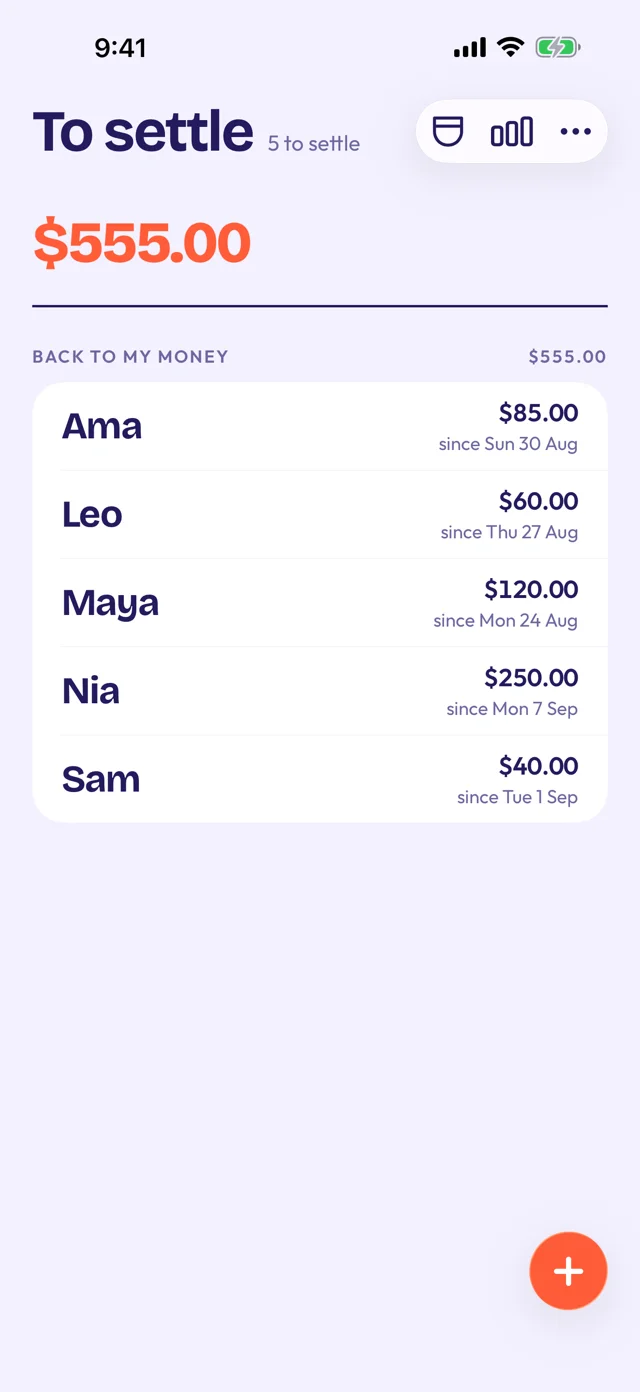
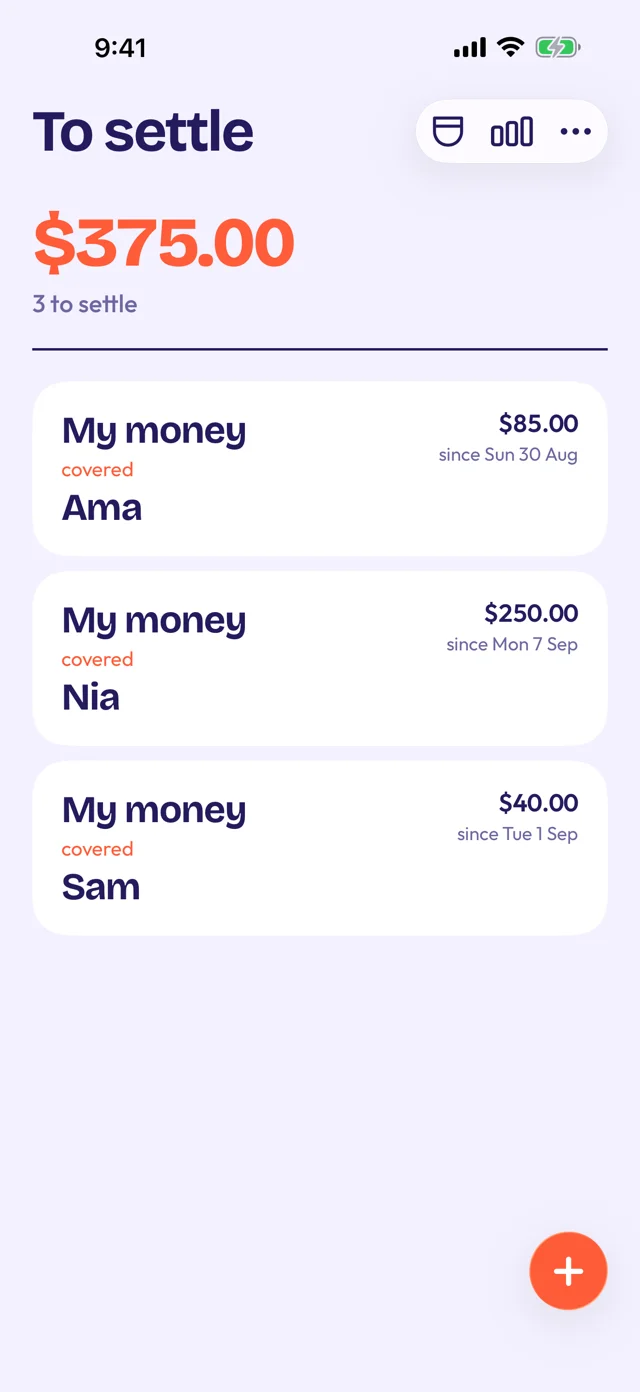
feat(how-to): the people guide's To settle panel shows the flat "My money covered Nia" screen [repocket-site-es7]
The owner picked the flat To settle capture for panel 4. The slot is
rebuilt from people-to-settle-flat.png as merged on app main (#332),
read from origin/main and resized with sips to 640x1392, then cwebp -q 85
-metadata none.

at-settle now pins the top of the "My money covered Nia" card (41% of the
capture) 46px below the chip and clips at 40.45%, in the gap under the Ama
card, so the panel opens on Nia's card with Sam's below it and none of the
$375.00 total shows. Checked with panels 1 and 3 at 375, 700, 820, 981,
1024, 1100, 1180, 1280 and 1440.

Panel 4's alt text quotes the flat screen, and its body reads "To settle
shows My money covered Nia, $250.00, until you move her share across."
The stack adapter names people-to-settle-flat.png as the slot's source,
records the new at-settle values, and calls the grouped capture the
alternate.

Bead: repocket-site-es7

diff --git a/how-to/people.html b/how-to/people.html
@@ -61,7 +61,7 @@ nav.site .wrap{display:flex;align-items:center;gap:18px;min-height:64px}
 .pn .frame.scr.mid>img{margin-top:0;transform:translateY(-33%)}
 /* each screen panel shows a window of its capture: the first row that matters sits a fixed distance below the chip at any width, and the clip cuts the screen just above it */
 .pn .frame.scr.at>img{margin-top:0;transform:translateY(var(--at));clip-path:inset(var(--clip) 0 0 0 round 22px 22px 0 0)}
-.pn .frame.at-picker{--at:calc(-22.2% + 42px);--clip:21.6%}.pn .frame.at-log{--at:calc(-16.53% + 42px);--clip:15%}.pn .frame.at-settle{--at:calc(-25.14% + 44px);--clip:20.5%}
+.pn .frame.at-picker{--at:calc(-22.2% + 42px);--clip:21.6%}.pn .frame.at-log{--at:calc(-16.53% + 42px);--clip:15%}.pn .frame.at-settle{--at:calc(-41% + 46px);--clip:40.45%}
 .pn .chip{position:absolute;top:14px;left:14px;z-index:2;padding:5px 10px;border-radius:999px;background:#fff;color:var(--ink);font:600 12px var(--text);letter-spacing:.04em}
 .pn .cap{padding:18px 22px 22px;display:flex;gap:14px;align-items:flex-start}
 .pn .no{flex:none;width:34px;height:34px;border-radius:50%;background:var(--coral);color:#fff;font:800 15px var(--display);display:flex;align-items:center;justify-content:center}
@@ -150,8 +150,8 @@ footer{padding:40px 0 60px;border-top:1px solid rgba(36,27,94,.1);font-size:14px
   </li>
   <li class="pn">
    <span class="chip">To settle</span>
-   <div class="frame scr at at-settle"><img src="../assets/screens/how-to/people-to-settle.webp" width="640" height="1392" decoding="async" loading="lazy" alt="Repocket's To settle screen: $555.00, 5 to settle, all under Back to My money: Ama, Leo, Maya, Nia for $250.00 since Mon 7 Sep, and Sam."></div>
-   <div class="cap"><span class="no" aria-hidden="true">4</span><div><h3>My money covered Nia. Back to My money.</h3><p>To settle lists Nia’s $250.00 under Back to My money, until you move her share across.</p></div></div>
+   <div class="frame scr at at-settle"><img src="../assets/screens/how-to/people-to-settle.webp" width="640" height="1392" decoding="async" loading="lazy" alt="Repocket's To settle screen: $375.00, 3 to settle. Three cards read My money covered Ama, $85.00 since Sun 30 Aug; My money covered Nia, $250.00 since Mon 7 Sep; and My money covered Sam, $40.00 since Tue 1 Sep."></div>
+   <div class="cap"><span class="no" aria-hidden="true">4</span><div><h3>My money covered Nia. Back to My money.</h3><p>To settle shows My money covered Nia, $250.00, until you move her share across.</p></div></div>
   </li>
   <li class="pn">
    <span class="chip">Settle</span>

diff --git a/docs/adapters/stack.md b/docs/adapters/stack.md
@@ -54,25 +54,27 @@ URL until a custom domain is added.
   | `everyday-pair.webp` | everyday, step 5 | `everyday-pair.png`: the pair screen for Vacation covered Groceries, $45.50, with the notes "Farmers market" and "Weekend grocery run" and the Mark settled button |
   | `people-picker.webp` | people, panel 1 | `people-picker.png`: the Paid from picker over Ama, Leo, Maya, My money, Nia and Sam |
   | `people-log.webp` | people, panel 3 | `people-log.png`: the Log sheet on Cover: $250.00, Paid from My money, Covering for Nia |
-  | `people-to-settle.webp` | people, panel 4 | `people-to-settle.png`: To settle with Nia's $250.00 under "Back to My money" |
+  | `people-to-settle.webp` | people, panel 4 | `people-to-settle-flat.png` (the owner's pick, 2026-10-13): To settle with three flat cards, one reading "My money covered Nia", $250.00 |
 
-  The capture set also holds `people-to-settle-flat.png`, an alternate for `people-to-settle`
-  (flat cards, one reading "My money covered Nia", no "Back to My money" header). Swapping it in is
-  the one WebP plus three edits in `how-to/people.html`: that panel's alt text, its body copy
-  (which names Back to My money), and the `at-settle` row and clip below, which are measured
-  against the grouped capture's rows.
+  The capture set also holds `people-to-settle.png`, the grouped alternate for that slot (Nia's
+  $250.00 listed under a "Back to My money" header, no "My money covered Nia" card). Swapping it
+  in is the one WebP plus three edits in `how-to/people.html`: that panel's alt text, its body
+  copy (which quotes "My money covered Nia"), and the `at-settle` row and clip below, which are
+  measured against the flat capture's rows.
 
   To swap one: `sips -z 1392 640 <capture>.png --out /tmp/slot.png && cwebp -q 85 -metadata none
   /tmp/slot.png -o assets/screens/how-to/<slot>.webp`, then render the page. The people panels
   show only a window of each screen, and the screen shrinks with the panel (about 490 to 650 px
   tall between 375 and 1440 wide) while the corner chip's bottom edge stays 39 px down. So each screen panel
   pins the first row that matters a fixed distance below the chip, `--at: calc(-<row>% + 42px)`
-  (44px for To settle's small header), and clips the screen just above that row with `--clip`,
+  (46px for To settle's Nia card), and clips the screen just above that row with `--clip`,
   set on the `at-picker`, `at-log` and `at-settle` classes in `how-to/people.html`. The rows are
-  percentages of the capture's height: the Paid from field (22.2%), the Cover toggle (16.53%) and
-  the "Back to My money" header (25.14%). With those values the chip sits over the dark frame,
-  clear of every word, at 375, 820, 981, 1024, 1100, 1180, 1280 and 1440. A new capture with a
-  different layout needs its row and clip measured again and checked at those widths.
+  percentages of the capture's height: the Paid from field (22.2%, clip 21.6%), the Cover toggle
+  (16.53%, clip 15%) and the top of the "My money covered Nia" card (41%, clip 40.45%, in the gap
+  under the Ama card, so none of the $375.00 total shows). With those values the chip sits over
+  the dark frame, clear of every word, at 375, 700, 820, 981, 1024, 1100, 1180, 1280 and 1440. A
+  new capture with a different layout needs its row and clip measured again and checked at those
+  widths.
 - `assets/press/` holds the press kit files that `press.html` shows and links: the en-US App
   Store frames, app screens and widgets (PNG, copied unchanged from the app repo), the four
   illustrations at 21:9, 16:9 and 3:2 (plus 1200px WebP previews for the page), the app icon (SVG,
